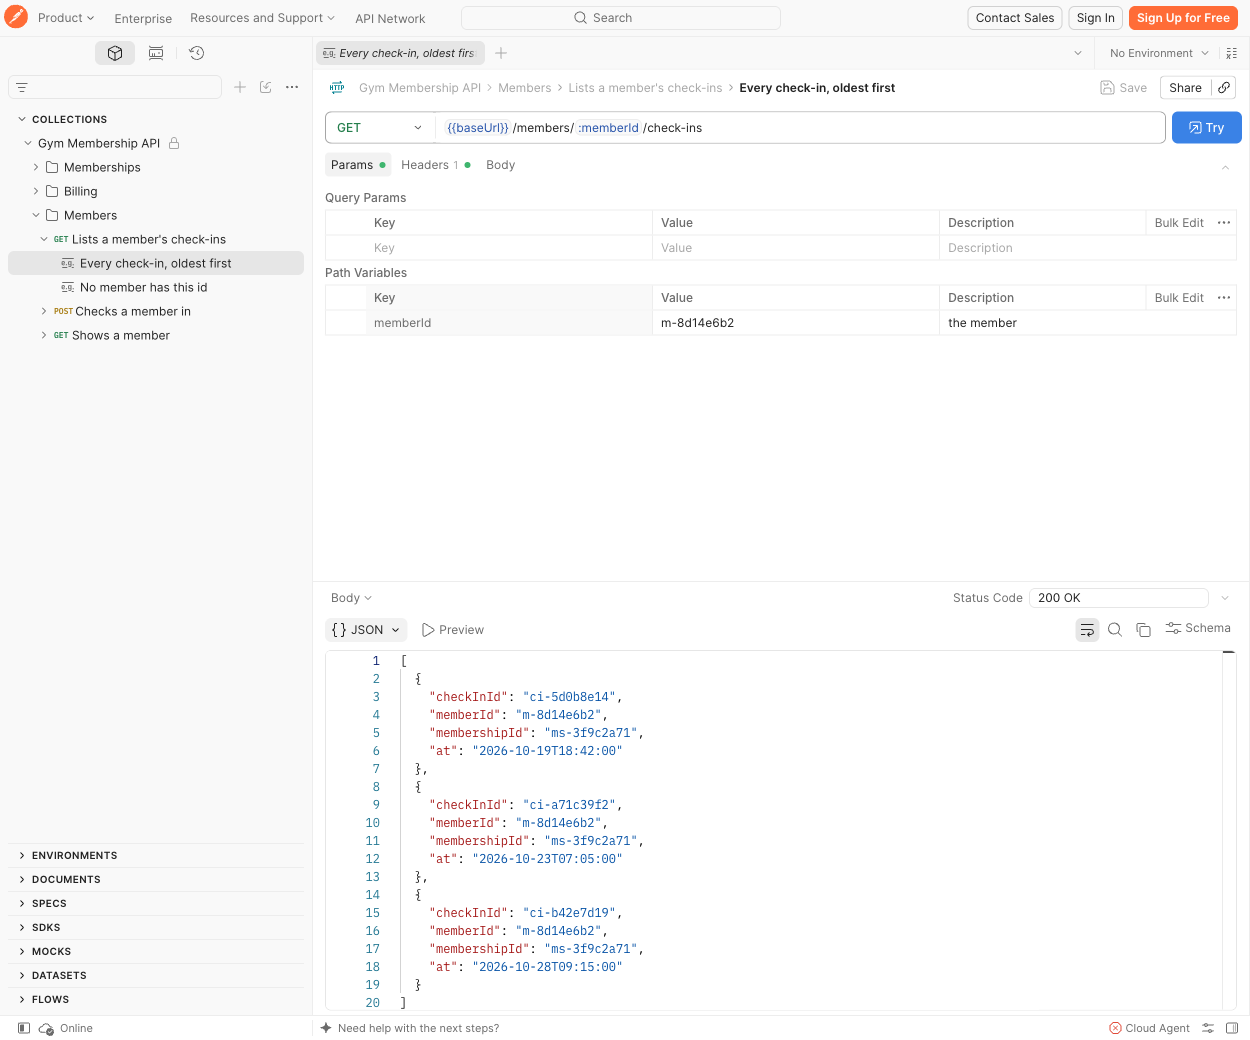
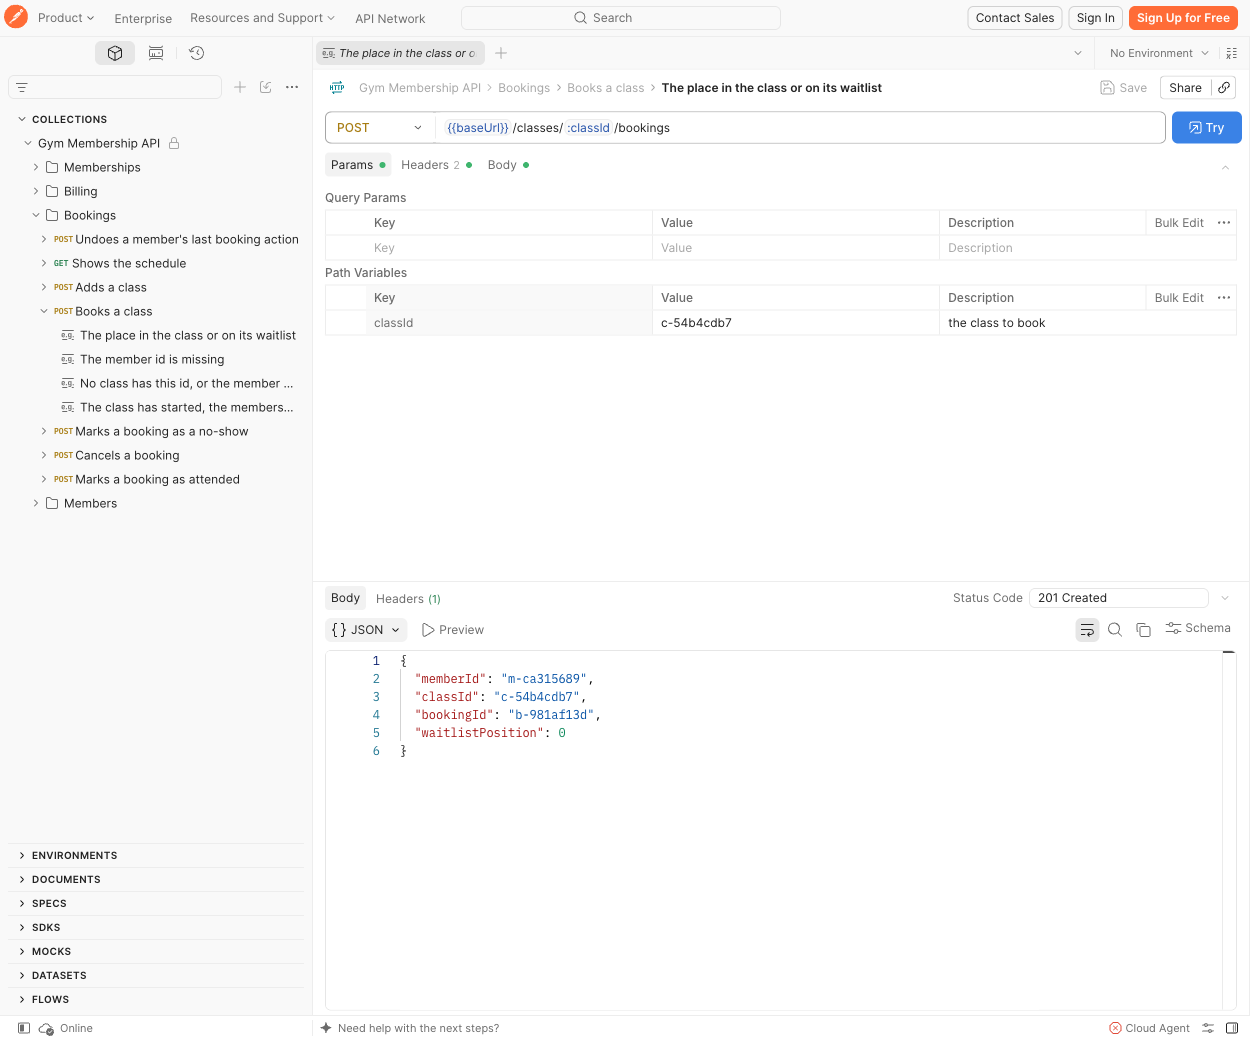
docs(readme): show Bookings in the Swagger UI and Postman screenshots

diff --git a/code/README.md b/code/README.md
@@ -56,7 +56,7 @@ Postman is our front end. Everything is in the public [Gym Membership workspace]
 
 The app also serves the spec at `/v3/api-docs` and a browsable version, built from the same Javadoc, at its root address. Live, that is https://gym-membership-production-a725.up.railway.app/v3/api-docs and https://gym-membership-production-a725.up.railway.app:
 
-![Swagger UI showing the API overview and the Memberships, Billing and Members endpoints](../report/screenshots/swagger-ui.png)
+![Swagger UI showing the API overview and the Memberships, Billing, Bookings and Members endpoints](../report/screenshots/swagger-ui.png)
 
 **Documenting an endpoint.** Write Javadoc on the controller method (first sentence is the summary, then the details, `@param` and `@return`), on its controller class (the folder description) and on the request and response records (`@param` for each field). Mark a field that can be `null` with JSpecify's `@Nullable`, so the spec allows it. Give a new controller an `@Order`, which sets where its folder goes in Postman. Declare each error response with `@ApiResponse` on the method, and add a real example response as `src/main/resources/openapi/examples/<method>-<status>.json`. Then regenerate:
 

diff --git a/README.md b/README.md
@@ -10,7 +10,7 @@ A monolithic (package-by-layer MVC + Hexagonal, with Interceptor) business tier 
 
 **Try it, no setup needed:** the app is live at https://gym-membership-production-a725.up.railway.app, which opens its Swagger UI. The public [Postman workspace](https://www.postman.com/spaceflight-geoscientist-47956182/gym-membership/collection/g5aqom5/gym-membership-api) has every endpoint, documented from the code, and sends to the live app by default. Pick the **mock** environment for Postman's saved examples, or **local** for the app on your machine. See [code/README.md](code/README.md#postman).
 
-![A member's check-ins, in the public Postman workspace, with its saved example response](report/screenshots/postman.png)
+![Booking a class, in the public Postman workspace, with its saved example response](report/screenshots/postman.png)
 
 ## Team
 
